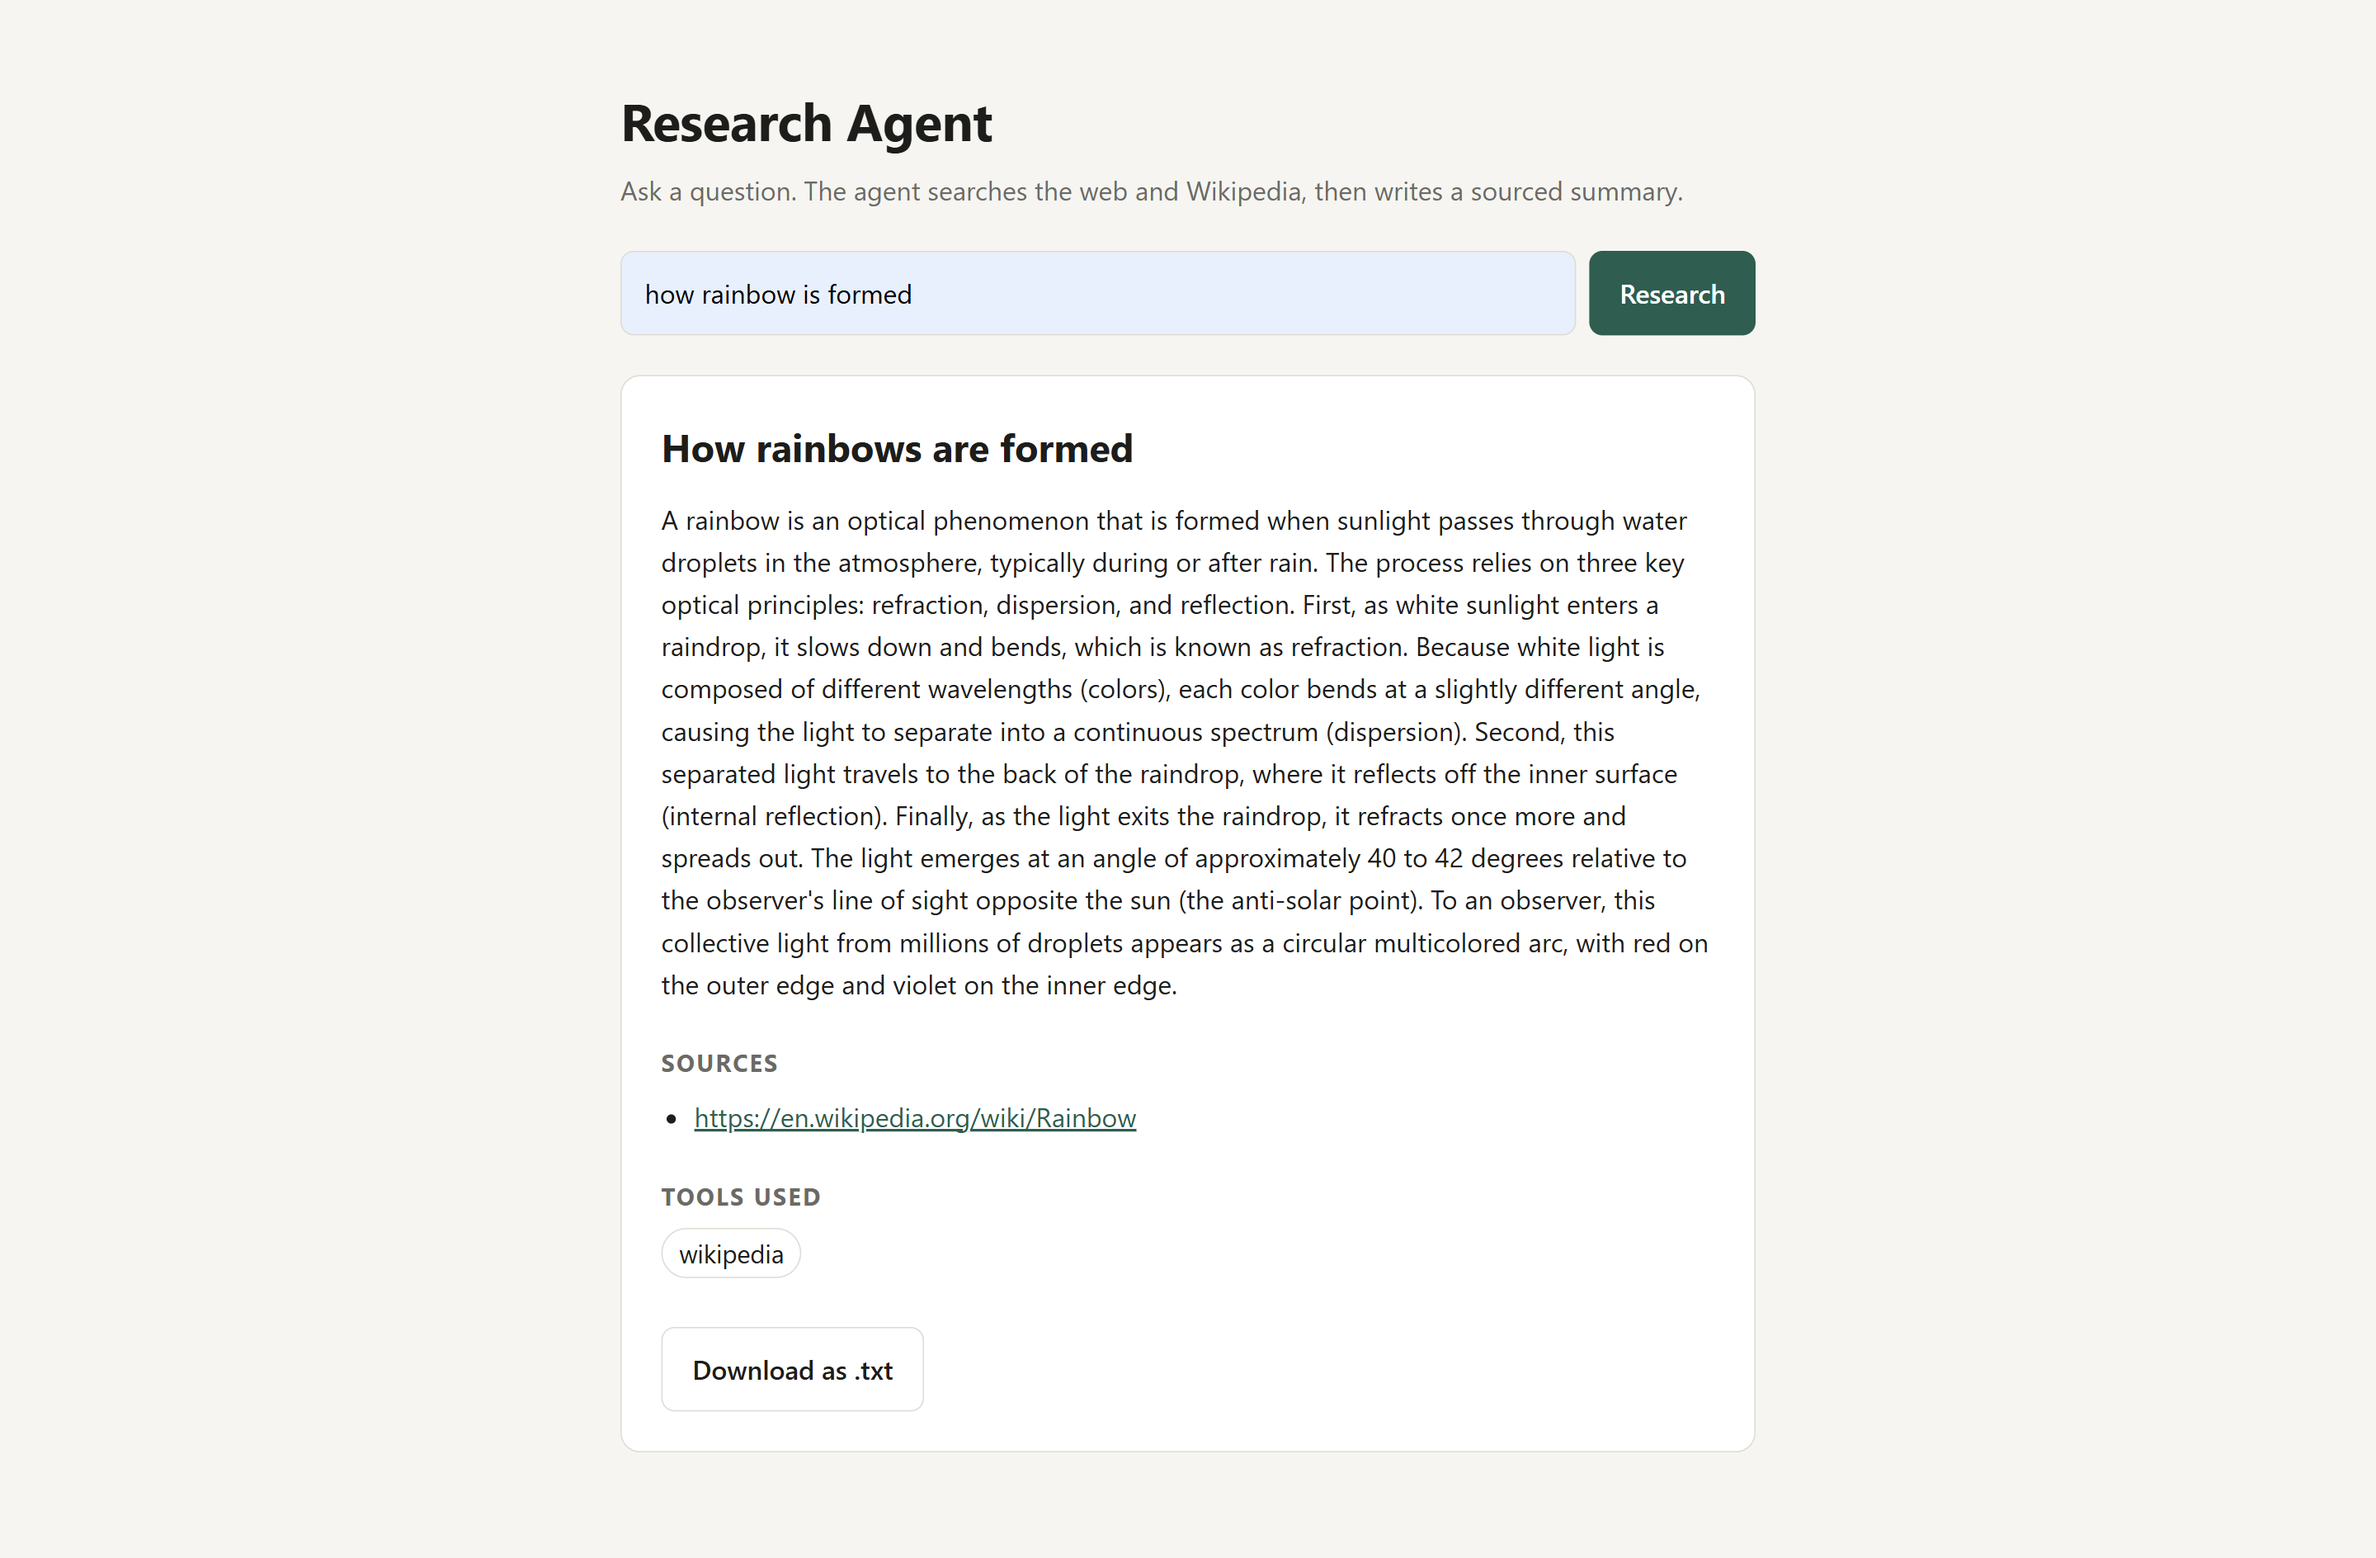
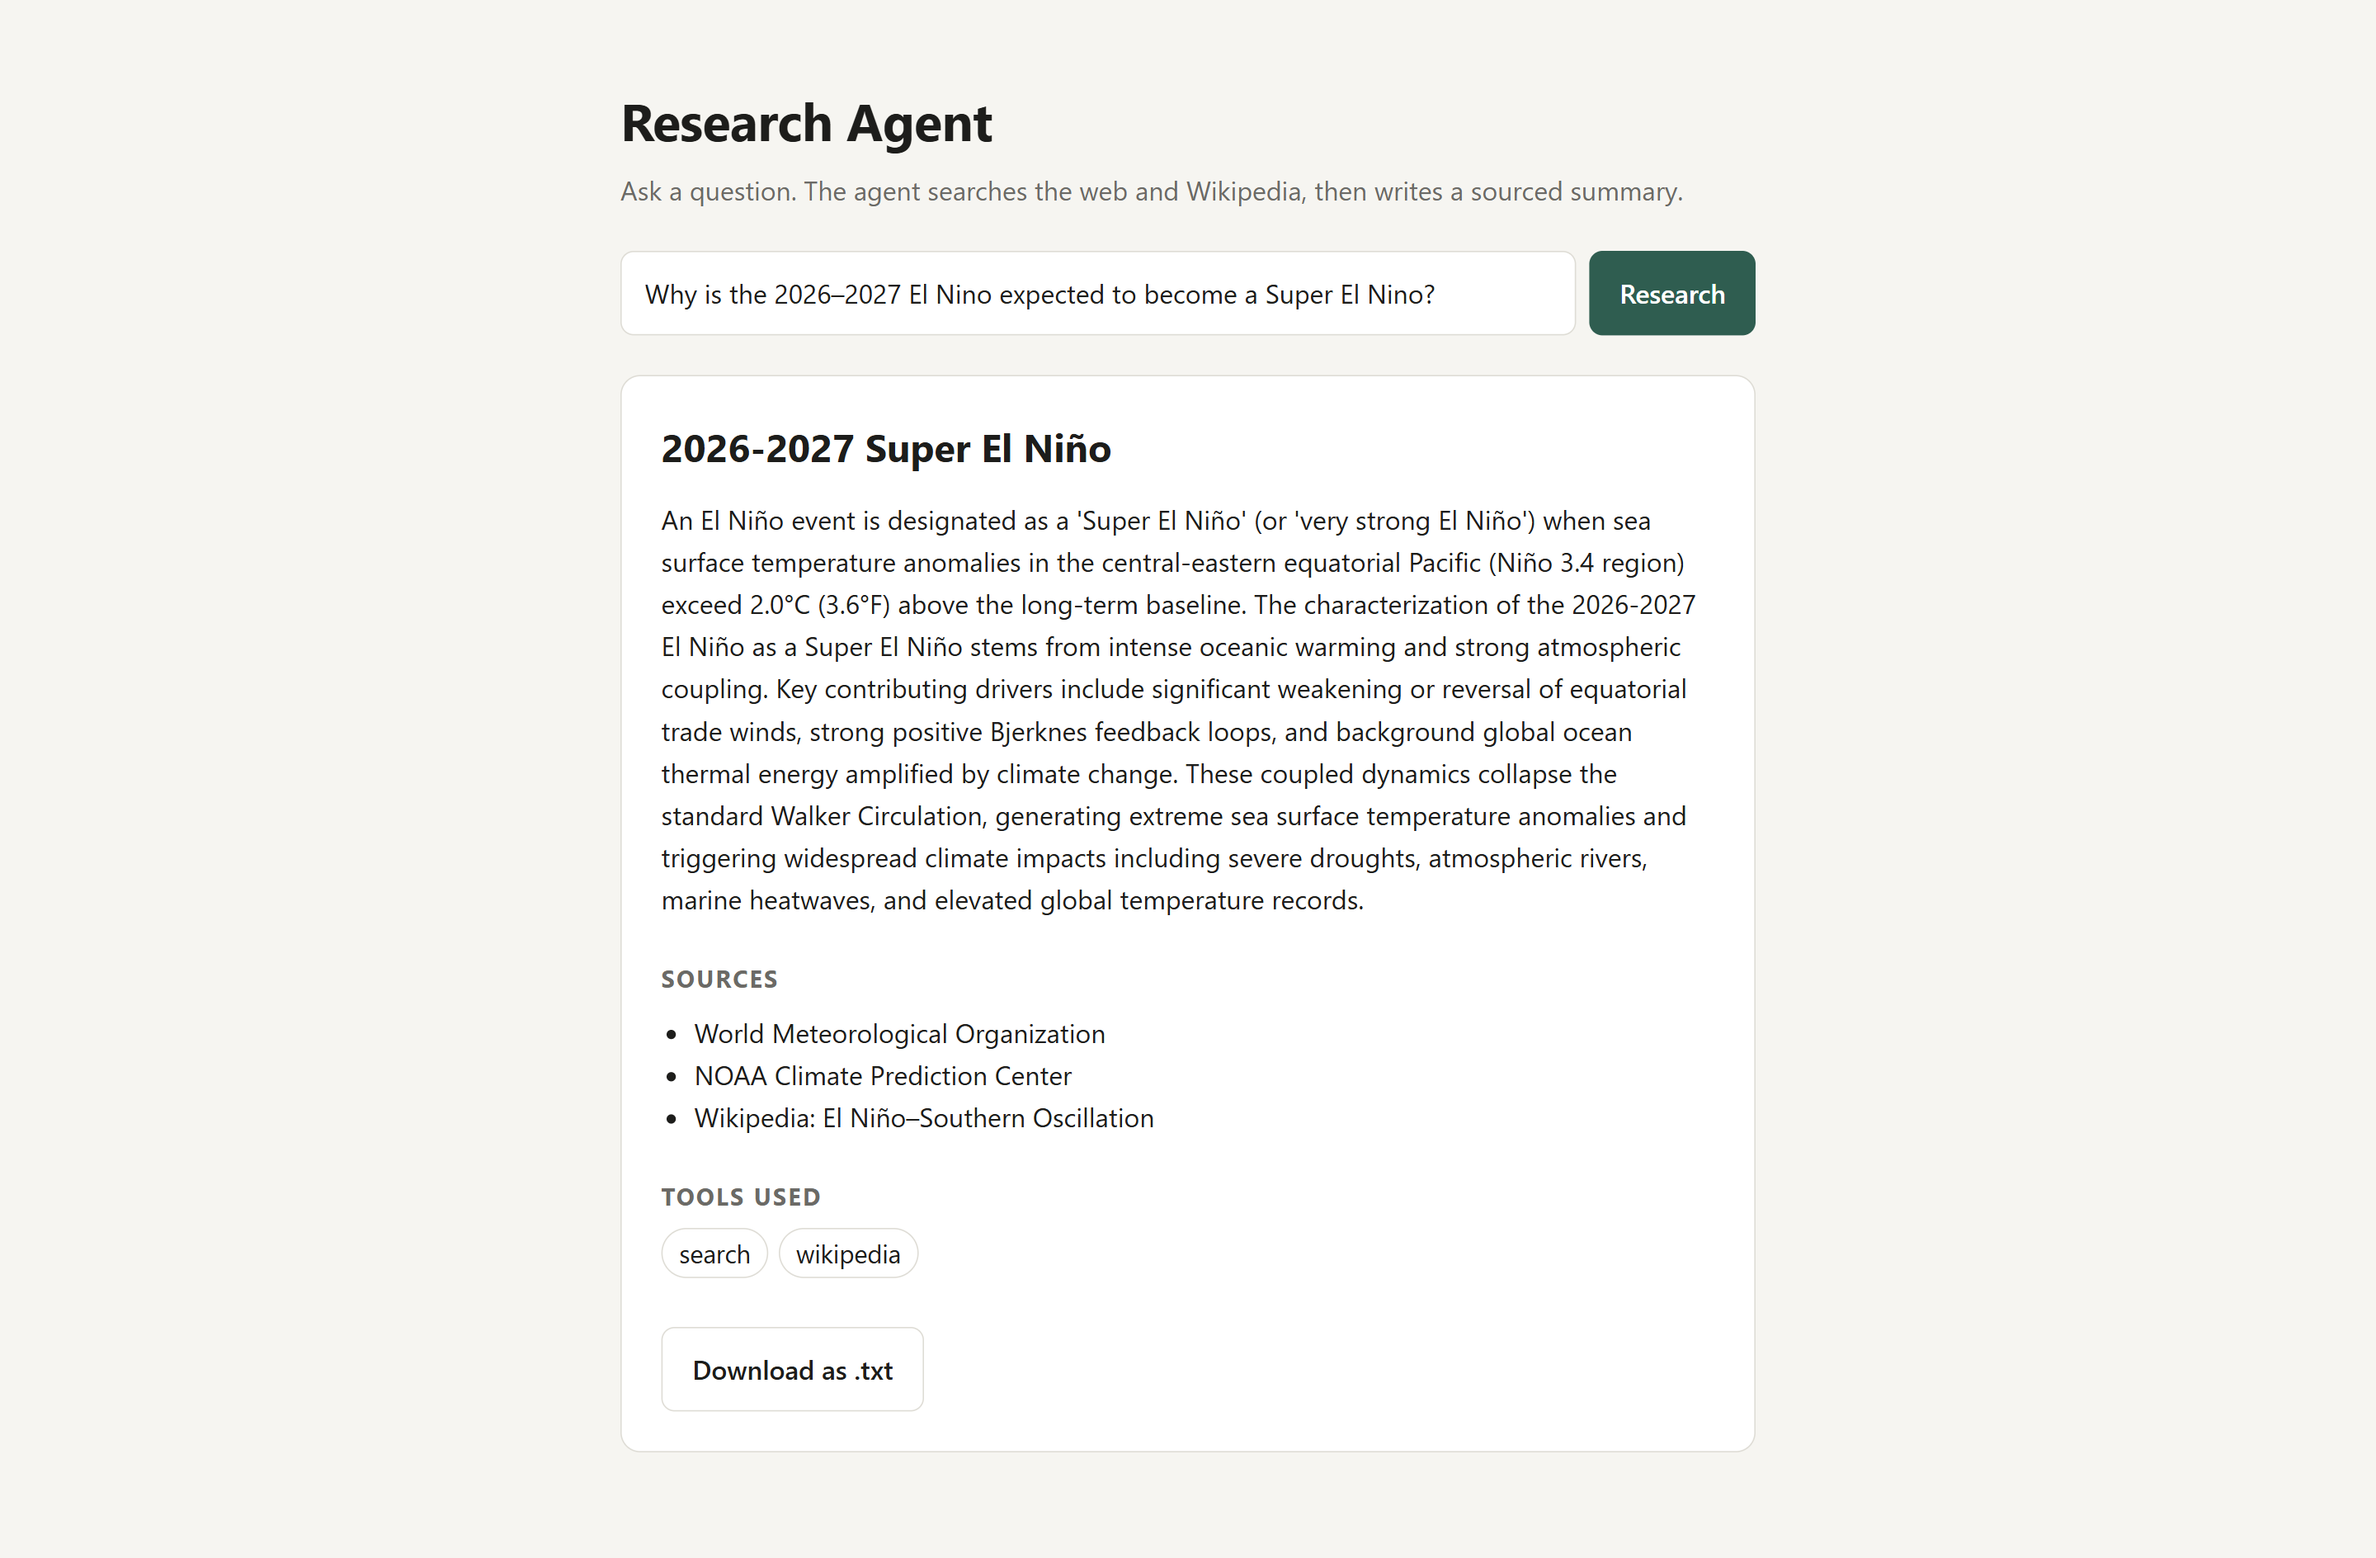
README.md updated

diff --git a/README.md b/README.md
@@ -4,6 +4,10 @@ An AI research assistant built with **LangChain** and **Google Gemini**. Ask it 
 
 It comes with a small web UI (FastAPI) and a command-line version.
 
+### 🚀 Live Demo
+
+👉 **[Try the AI Research Agent](https://python-ai-agent-lake.vercel.app/)**
+
 ![Research Agent web UI answering "how rainbow is formed"](screenshot.png)
 
 ## Features
